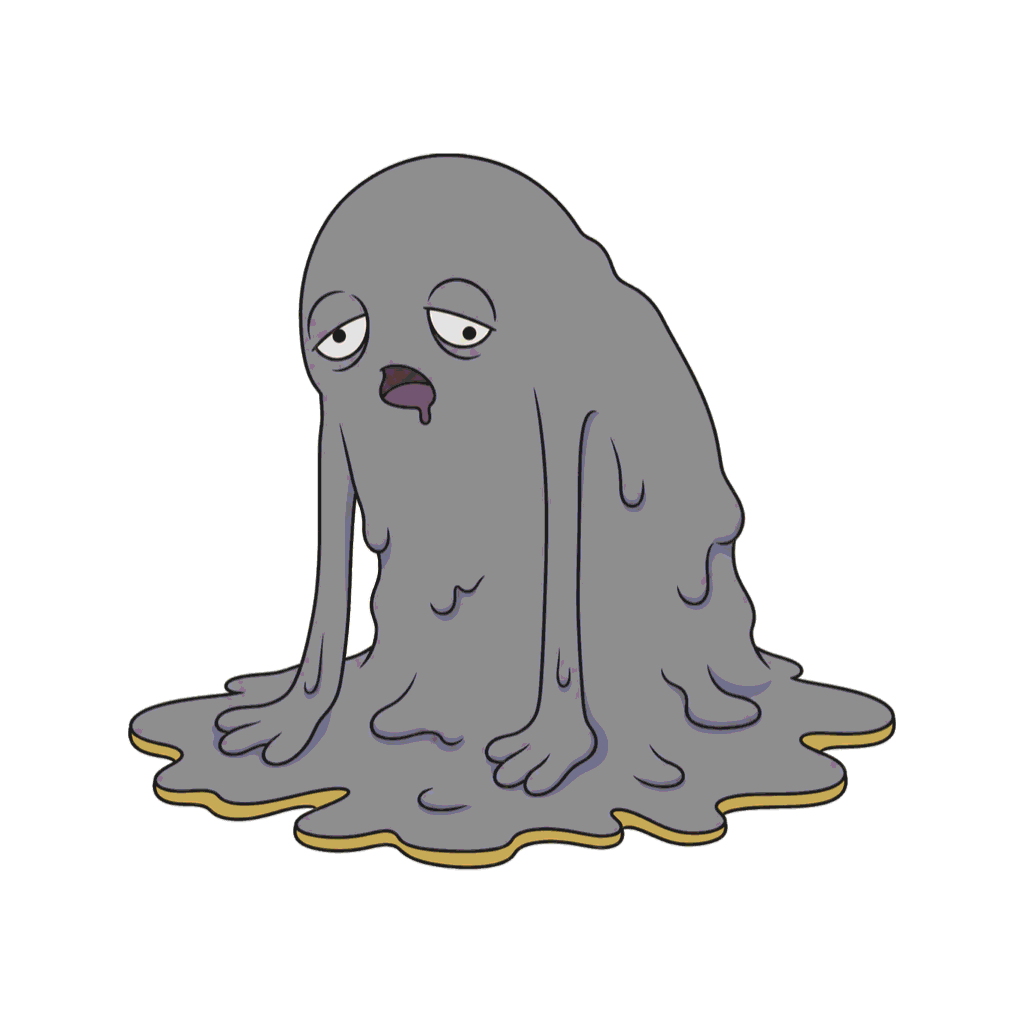
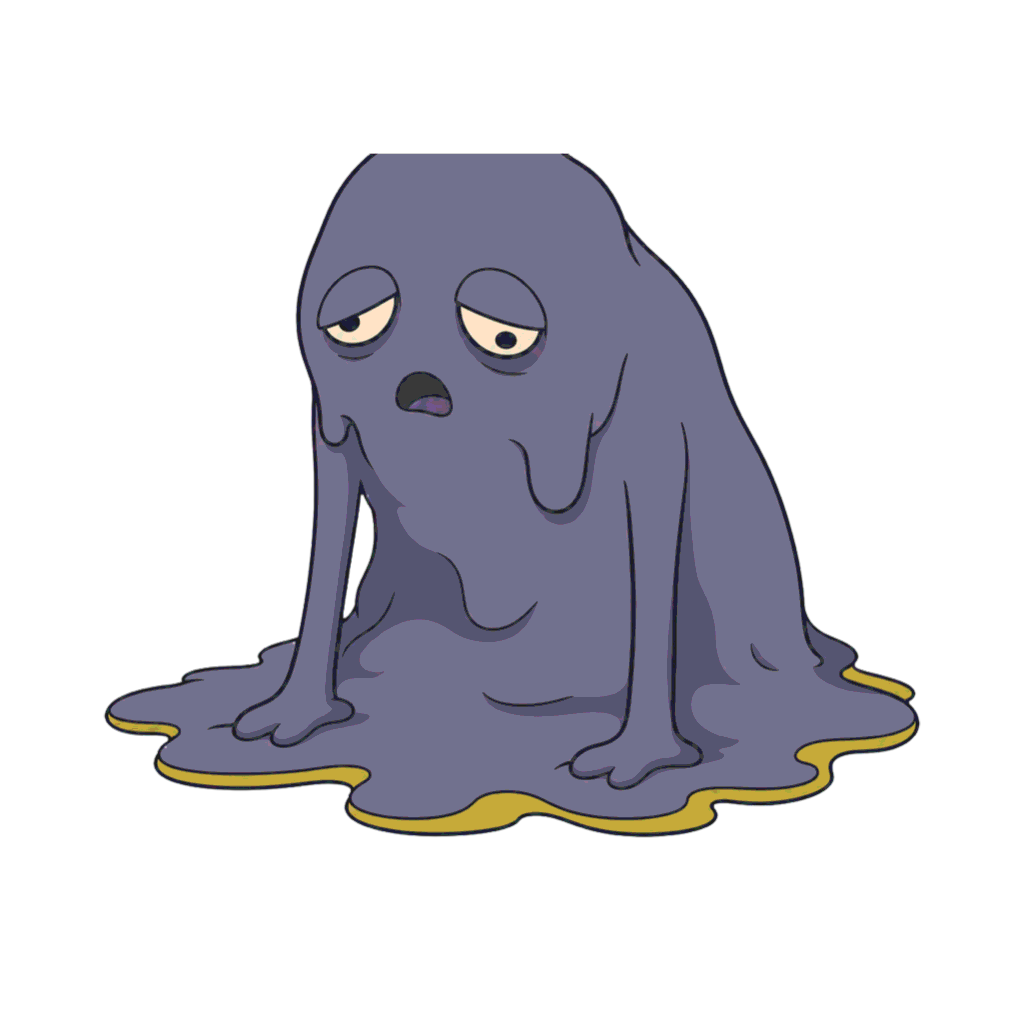
fix: STYLE SPEC に明度指定を追加し、アクセント色の矛盾を解消
第1章の4体（ダラリ・ネムケ・ゴロネ・アクビ）を生成・後処理し、§5 の基準で
検証した結果、目視では気付けない2つの問題が実測で判明した。

1. ネムケだけ平均明度 127.3（他3体は 102〜109）で1体だけ明るい。
   STYLE SPEC が明度について何も指定していなかったため、
   「浮遊する」という個体の性質がそのまま「軽く明るい絵」に反映されていた。
   MID-DARK を明示し、概念が軽さを示唆しても明るくしないよう指定した。

2. アクセント面積が 0.1〜8.1% とばらついた。ネムケが 0.1% だったのは、
   STYLE SPEC が「ONE warmer accent color」と指定しているのに個体ブロックが
   pale sickly green（寒色）を指定していたという仕様の矛盾が原因。
   固定側に暖色の具体名と面積 3〜6% を明記し、ネムケの個体ブロックを
   sallow yellow-ochre に直した。

§5 の「原因は固定側にある」という鉄則どおりの修正。

あわせて実測ツールを追加した。明度とアクセント面積は目視で判断できないため、
生成のたびに通す。12体を並べる量産では、この手のズレは必ず出る。

パイプライン側も修正。既に透過で生成された画像では背景除去を丸ごと飛ばすようにした。
飛ばさないと四隅から背景色を推定できず既定値が使われ、閉じた領域の判定が
白目のような明るい部位を誤って消してしまう。

diff --git a/tools/artstats/main.swift b/tools/artstats/main.swift
@@ -1,0 +1,45 @@
+import CoreGraphics
+import Foundation
+import ImageIO
+// ART_PROMPTS.md §5 の「明度が揃っているか」「アクセント色の面積」を実測する
+print(String(format: "%-14@ %8@ %8@ %8@ %8@", "個体" as NSString, "平均明度" as NSString,
+             "占有率" as NSString, "彩度" as NSString, "暖色面積" as NSString))
+var lums: [Double] = []
+for path in CommandLine.arguments.dropFirst() {
+    guard let src = CGImageSourceCreateWithURL(URL(fileURLWithPath: path) as CFURL, nil),
+          let img = CGImageSourceCreateImageAtIndex(src, 0, nil) else { continue }
+    let w = img.width, h = img.height
+    var px = [UInt8](repeating: 0, count: w * h * 4)
+    guard let ctx = CGContext(data: &px, width: w, height: h, bitsPerComponent: 8,
+        bytesPerRow: w * 4, space: CGColorSpaceCreateDeviceRGB(),
+        bitmapInfo: CGImageAlphaInfo.premultipliedLast.rawValue) else { continue }
+    ctx.draw(img, in: CGRect(x: 0, y: 0, width: w, height: h))
+
+    var lumSum = 0.0, satSum = 0.0, opaque = 0, warm = 0
+    for i in stride(from: 0, to: px.count, by: 4) {
+        let a = Double(px[i+3]) / 255
+        guard a > 0.5 else { continue }
+        let r = Double(px[i]) / a, g = Double(px[i+1]) / a, b = Double(px[i+2]) / a
+        opaque += 1
+        lumSum += 0.2126 * r + 0.7152 * g + 0.0722 * b
+        let mx = max(r, g, b), mn = min(r, g, b)
+        satSum += mx > 0 ? (mx - mn) / mx : 0
+        // 暖色（アクセント色）: 赤が青より明確に強い
+        if r > b + 28 { warm += 1 }
+    }
+    guard opaque > 0 else { continue }
+    let lum = lumSum / Double(opaque)
+    lums.append(lum)
+    let name = (path as NSString).deletingPathExtension as NSString
+    print(String(format: "%-14@ %8.1f %7.1f%% %8.3f %7.1f%%",
+                 name.lastPathComponent as NSString, lum,
+                 Double(opaque) / Double(w * h) * 100,
+                 satSum / Double(opaque),
+                 Double(warm) / Double(opaque) * 100))
+}
+if lums.count > 1 {
+    let mean = lums.reduce(0,+) / Double(lums.count)
+    let sd = (lums.map { ($0-mean)*($0-mean) }.reduce(0,+) / Double(lums.count)).squareRoot()
+    print(String(format: "\n明度の幅: %.1f 〜 %.1f （差 %.1f / 標準偏差 %.1f）",
+                 lums.min()!, lums.max()!, lums.max()! - lums.min()!, sd))
+}

diff --git a/tools/artpipeline/main.swift b/tools/artpipeline/main.swift
@@ -117,6 +117,30 @@ struct Bitmap {
 func removeBackground(_ bitmap: inout Bitmap) -> Int {
     let w = bitmap.width, h = bitmap.height
 
+    // 既に透過で生成されている場合は、除去処理を丸ごと飛ばす。
+    //
+    // **これを飛ばさないと明るい部位に穴が開く。** 透過画像では四隅から背景色を
+    // 推定できず既定値 #E8E4DC が使われるため、1b の閉じた領域の判定が
+    // 「背景色に近い明るい部分」＝白目などを誤って消してしまう。
+    // 新しいアートは STYLE SPEC どおり透過で来るので、通常はこちらの経路を通る。
+    var transparentBorder = 0
+    var borderCount = 0
+    for x in 0..<w {
+        for y in [0, h - 1] {
+            borderCount += 1
+            if bitmap[x, y].a == 0 { transparentBorder += 1 }
+        }
+    }
+    for y in 0..<h {
+        for x in [0, w - 1] {
+            borderCount += 1
+            if bitmap[x, y].a == 0 { transparentBorder += 1 }
+        }
+    }
+    if Double(transparentBorder) / Double(borderCount) > 0.9 {
+        return 0
+    }
+
     // 四隅の色から実際の背景色を推定する。生成物は指定色から微妙にずれるため、
     // 固定値ではなく現物に合わせる。
     var samples: [(Double, Double, Double)] = []

diff --git a/ART_PROMPTS.md b/ART_PROMPTS.md
@@ -43,7 +43,14 @@ STYLE SPEC (identical for every image in this set):
 - Exactly one flat shadow tone per color area. No gradients, no soft shading,
   no texture, no highlights, no glow, no rendering.
 - Limited, desaturated, muted palette. Base hues in the grey-violet and dusty
-  blue range. Exactly ONE warmer accent color per creature, used sparingly.
+  blue range.
+- IMPORTANT — every creature in the set must share the same overall brightness.
+  The body must read as a MID-DARK tone: clearly darker than a light background,
+  never pale or washed out. Do not make any single creature lighter or airier
+  than the others, even if its concept suggests weightlessness.
+- Exactly ONE warm accent color per creature (amber, ochre, rust, brick, or
+  apricot — never a cool color), covering roughly 3-6% of the creature's area.
+  Used on one small body part only.
 - Fully transparent background (alpha channel). No background color, no shadow
   on the ground, no ground plane, no props, no environment. The creature must be
   fully isolated with clean edges suitable for compositing.
@@ -79,7 +86,7 @@ CHARACTER: A drifting jellyfish-like creature made of soft sagging folds,
 floating just above the ground and tilted as if falling asleep in mid-air.
 One enormous eye almost entirely covered by a heavy lid, with long drooping
 lashes. Beneath it hang several limp ribbon-like tendrils of uneven length.
-Accent color: pale sickly green at the tips of the tendrils.
+Accent color: sallow yellow-ochre at the tips of the tendrils.
 ```
 
 ### ③ ゴロネ / Gorone — 重量級
@@ -126,7 +133,7 @@ CHARACTER: A drifting jellyfish-like creature made of soft sagging folds,
 floating just above the ground and tilted as if falling asleep in mid-air.
 One enormous eye almost entirely covered by a heavy lid, with long drooping
 lashes. Beneath it hang several limp ribbon-like tendrils of uneven length.
-Accent color: pale sickly green at the tips of the tendrils.
+Accent color: sallow yellow-ochre at the tips of the tendrils.
 ```
 
 #### ③ ゴロネ / Gorone — 硬い（既存・要再生成）
@@ -383,6 +390,23 @@ Accent color: warm amber on the inner lining of the hood.
 
 **2つ以上落ちる場合はスタイルブロックの記述を修正する。**
 個体ブロックをいじって直そうとしないこと。原因は固定側にある。
+
+### 明度とアクセント面積は目視で判断しないこと
+
+「1体だけ浮いている」は目で見ても分からない。実測する。
+
+```bash
+swiftc -O -o /tmp/artstats tools/artstats/main.swift
+/tmp/artstats assets/processed/*.png
+```
+
+**合格条件: 平均明度の差が 15 以内、アクセント面積が 3〜6%。**
+
+第1章の4体を実測したところ、ネムケだけ明度 127.3（他3体は 102〜109）で
+1体だけ明るく、アクセント面積も 0.1% しかなかった。
+後者は STYLE SPEC が「ONE warm accent color」と指定しているのに、
+個体ブロックが `pale sickly green`（寒色）を指定していたという**仕様の矛盾**が原因。
+どちらも目視では見落としていた。
 
 ---
 

diff --git a/tools/artstats/README.md b/tools/artstats/README.md
@@ -1,0 +1,24 @@
+# アセットの実測ツール
+
+ART_PROMPTS.md §5 の判断基準のうち、**目視では判断できない2項目**を数値で出す。
+
+```bash
+swiftc -O -o /tmp/artstats tools/artstats/main.swift
+/tmp/artstats assets/processed/*.png
+```
+
+| 指標 | 合格条件 | 意味 |
+|---|---|---|
+| 平均明度 | 全体の差が **15 以内** | 1体だけ明るい／暗いと図鑑で浮く |
+| アクセント面積 | **3〜6%** | 暖色アクセントの占有率 |
+| 占有率 | 参考値 | キャンバスに占める本体の面積 |
+| 彩度 | 参考値 | 低彩度パレットから外れていないか |
+
+## なぜ要るか
+
+第1章の4体で、目視では全て合格に見えたが、実測するとネムケだけ明度 127.3
+（他3体は 102〜109）で1体だけ明るかった。アクセント面積も 0.1% しかなく、
+STYLE SPEC の「ONE warm accent color」と個体ブロックの `pale sickly green`
+（寒色）が矛盾していたことが判明した。**どちらも目で見て気付けなかった。**
+
+量産では12体を並べるので、この手のズレは必ず出る。生成のたびに通すこと。
